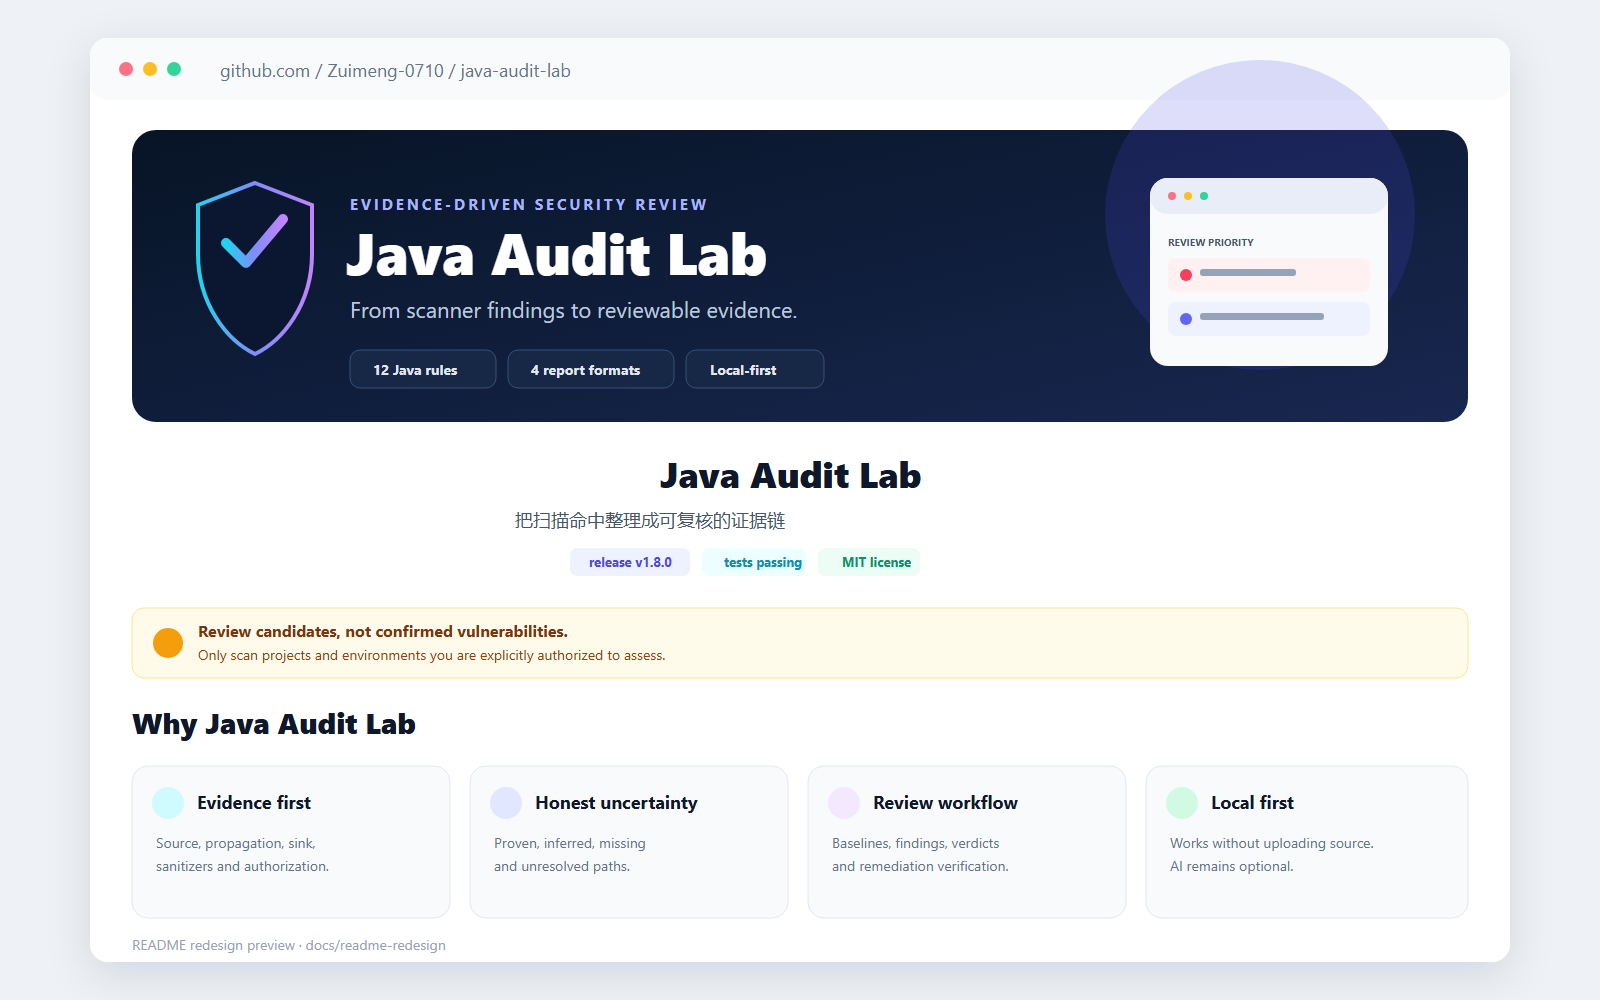
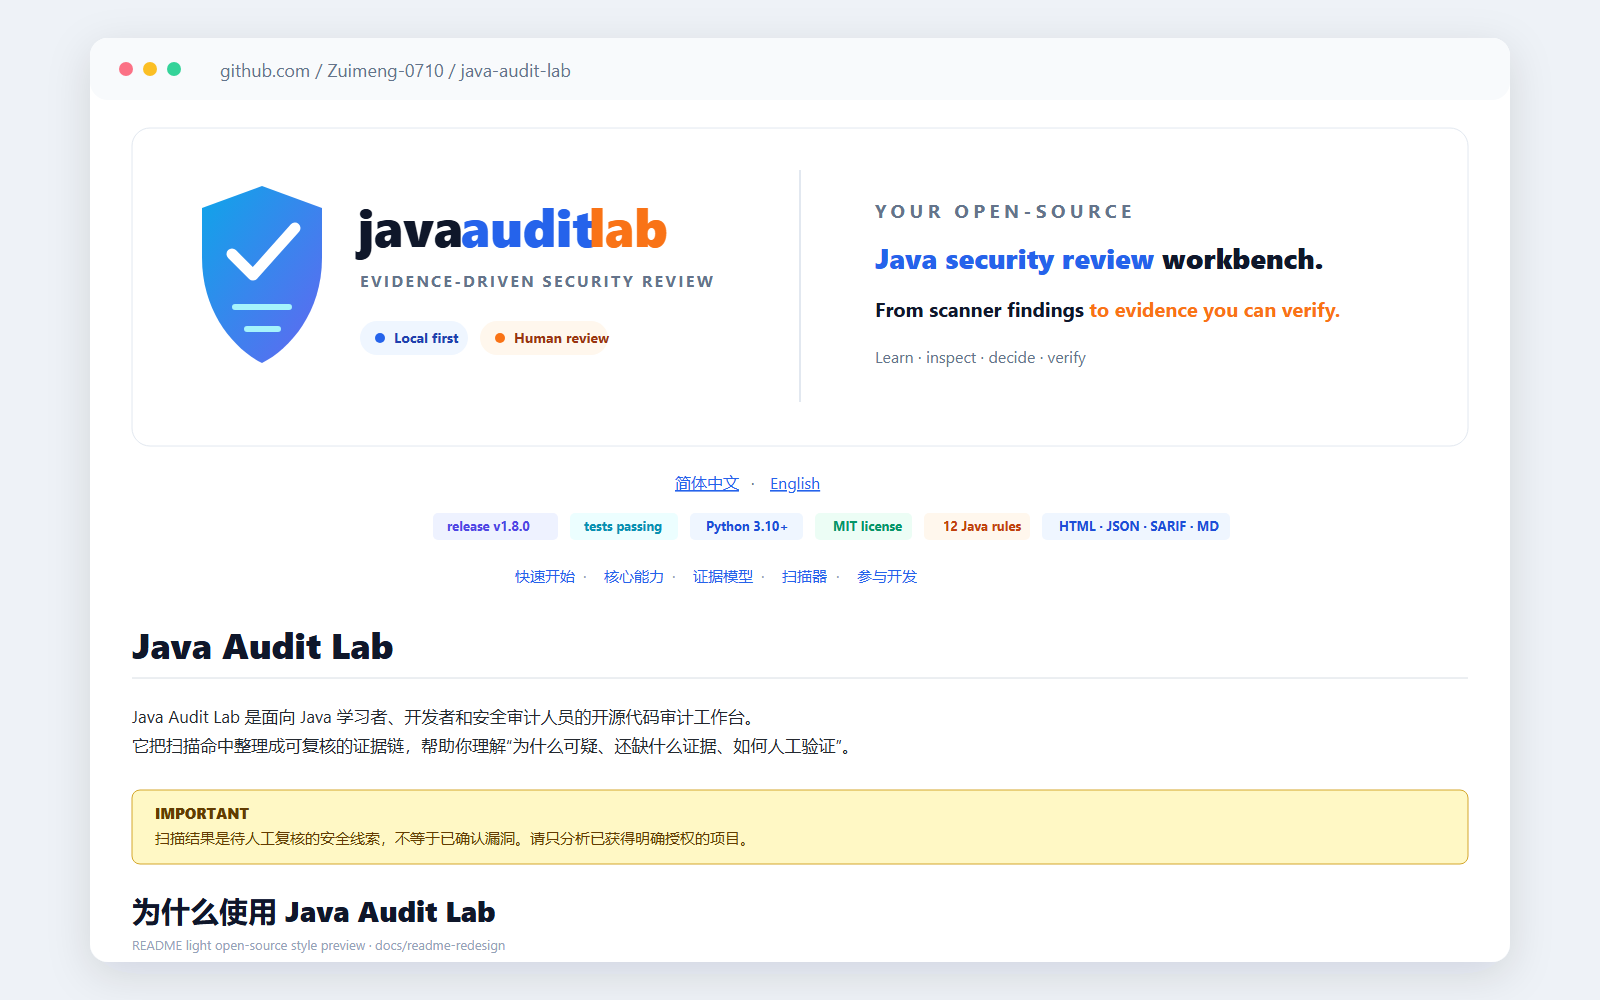
Refine README with open source project header

diff --git a/README.md b/README.md
@@ -2,20 +2,23 @@
 
 ![Java Audit Lab](docs/assets/readme-hero.svg)
 
-# Java Audit Lab
-
-**Evidence-driven Java security review workbench**
-
-把扫描命中整理成可复核的证据链，帮助 Java 学习者、开发者与安全审计人员理解“为什么可疑、还缺什么、如何验证”。
+[简体中文](#java-audit-lab) · [English](#english-summary)
 
 [![Release](https://img.shields.io/github/v/release/Zuimeng-0710/java-audit-lab?style=flat-square&color=6366f1)](https://github.com/Zuimeng-0710/java-audit-lab/releases)
 [![CI](https://img.shields.io/github/actions/workflow/status/Zuimeng-0710/java-audit-lab/ci.yml?branch=main&style=flat-square&label=tests)](https://github.com/Zuimeng-0710/java-audit-lab/actions)
 [![Python](https://img.shields.io/badge/Python-3.10%2B-0ea5e9?style=flat-square)](https://www.python.org/)
 [![License](https://img.shields.io/badge/License-MIT-10b981?style=flat-square)](LICENSE)
 
-[快速开始](#quick-start) · [核心能力](#capabilities) · [证据模型](#evidence-model) · [扫描器](#scanners) · [项目配置](#project-config) · [参与开发](#development)
+[![Rules](https://img.shields.io/badge/Java_rules-12-f97316?style=flat-square)](#capabilities)
+[![Reports](https://img.shields.io/badge/reports-HTML%20%7C%20JSON%20%7C%20SARIF%20%7C%20Markdown-2563eb?style=flat-square)](#quick-start)
+
+[快速开始](#quick-start) · [核心能力](#capabilities) · [证据模型](#evidence-model) · [扫描器](#scanners) · [参与开发](#development)
 
 </div>
+
+# Java Audit Lab
+
+Java Audit Lab 是面向 Java 学习者、开发者和安全审计人员的开源代码审计工作台。它把扫描命中整理成可复核的证据链，帮助你理解“为什么可疑、还缺什么证据、如何人工验证”。
 
 > [!IMPORTANT]
 > 扫描结果是待人工复核的安全线索，不等于已确认漏洞。请只分析自己拥有或已获得明确授权的项目与环境。
@@ -289,6 +292,14 @@ java-audit-lab/
 - 内置基准和 train 语料用于回归，不应当作为真实世界准确率声明。
 
 完整变化见 [CHANGELOG.md](CHANGELOG.md)。
+
+<a id="english-summary"></a>
+
+## English summary
+
+Java Audit Lab is an open-source, evidence-driven Java security review workbench for learners, developers, and security auditors. It turns scanner findings into reviewable evidence covering entry points, sources, propagation, sinks, sanitizers, authorization, uncertainty, and remediation verification.
+
+Scan results are review candidates rather than confirmed vulnerabilities. Review only projects and environments you own or are explicitly authorized to assess.
 
 ## License
 
